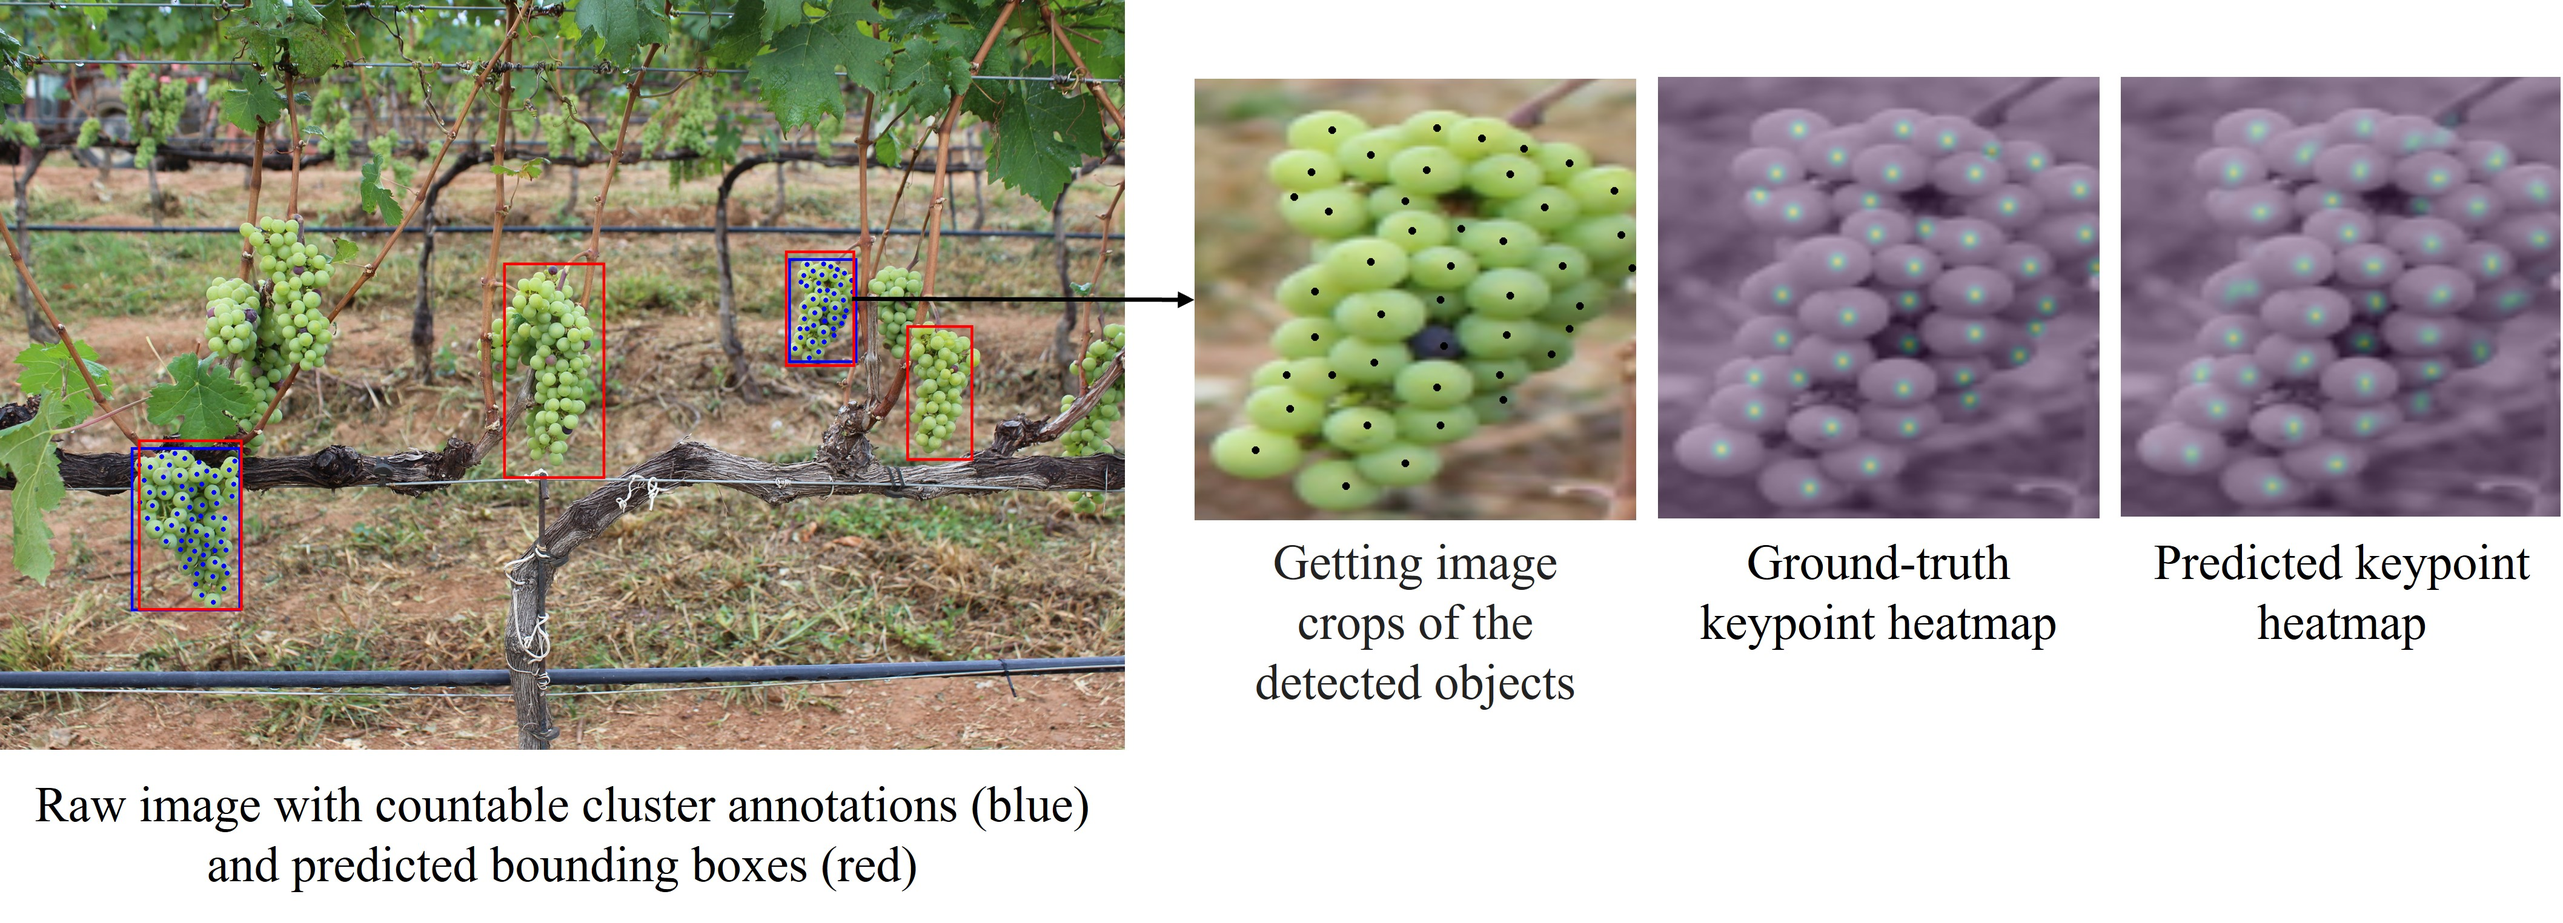
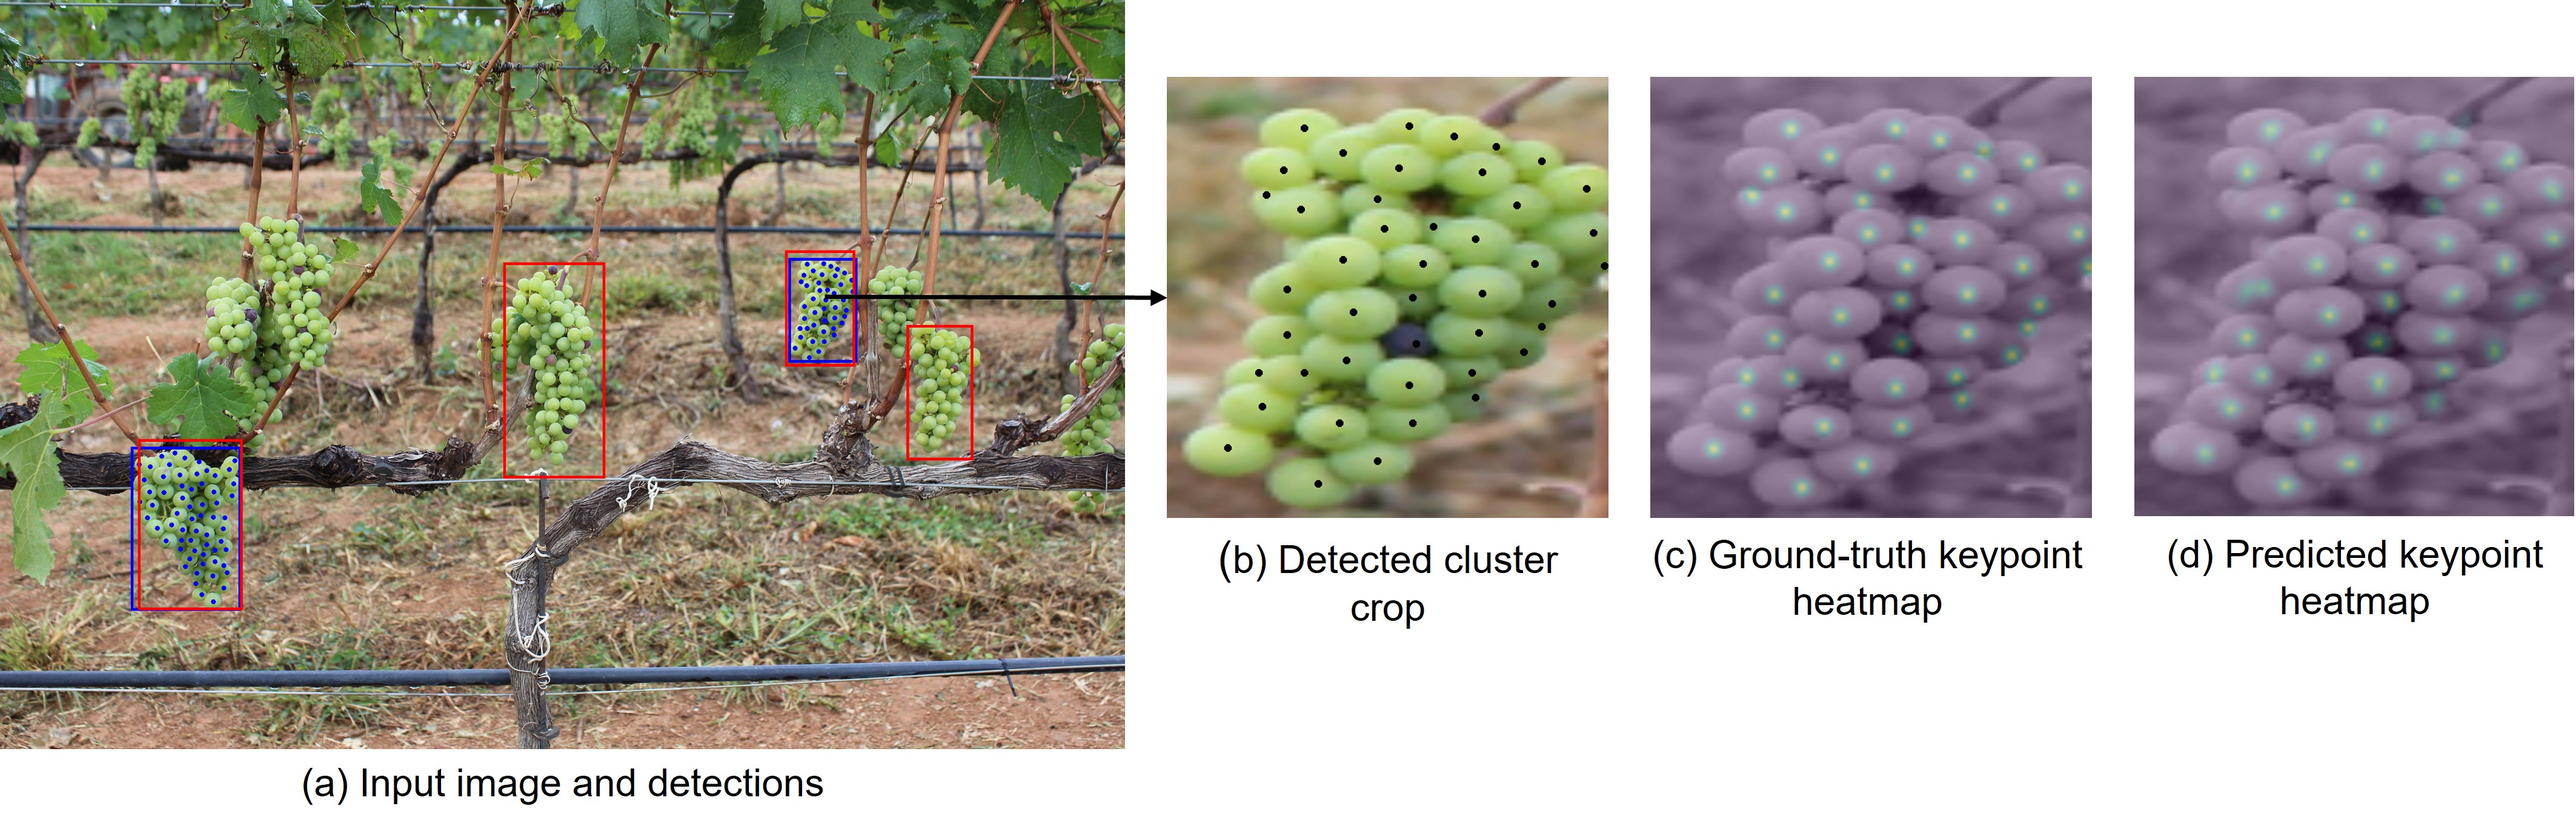
20/8 improve examples

diff --git a/README.md b/README.md
@@ -19,16 +19,16 @@ The underlying methods have been published in
 
 
 ![Raw grapes image, detected cluster crop, ground-truth keypoint heatmap, and LegoNet-predicted keypoint heatmap](docs/images/per-object-counting-keypoint-example.jpg)
-
-*Per-object berry counting. The full image shows countable grape-cluster
+*Per-object berry counting. The full image (`CFR_1667.jpg`in the [*Embrapa WGISD dataset*](https://github.com/thsant/wgisd)) shows countable grape-cluster
 annotations in blue and predicted bounding boxes in red. A detected cluster is
 then cropped for comparison of its ground-truth and predicted keypoint
 heatmaps.*
 
-![Raw underground image, ground-truth root keypoint heatmap, and LegoNet-predicted keypoint heatmap](docs/images/trl-keypoint-heatmaps-example.jpg)
 
+
+![Raw underground image, ground-truth root keypoint heatmap, and LegoNet-predicted keypoint heatmap](docs/images/trl-keypoint-heatmaps-example.jpg)
 *Total root length (TRL) estimation from the underground image
-`T025_L084_2012.10.10_115421_002.jpg` in the grapevine-root test set. From left
+`T025_L084_2012.10.10_115421_002.jpg` in the [*grapevine-root dataset](https://doi.org/10.5281/zenodo.8084106). From left
 to right: raw input, ground-truth Gaussian keypoint heatmap (TRL 124.09 mm),
 and predicted keypoint heatmap (TRL 110.03 mm).*
 
